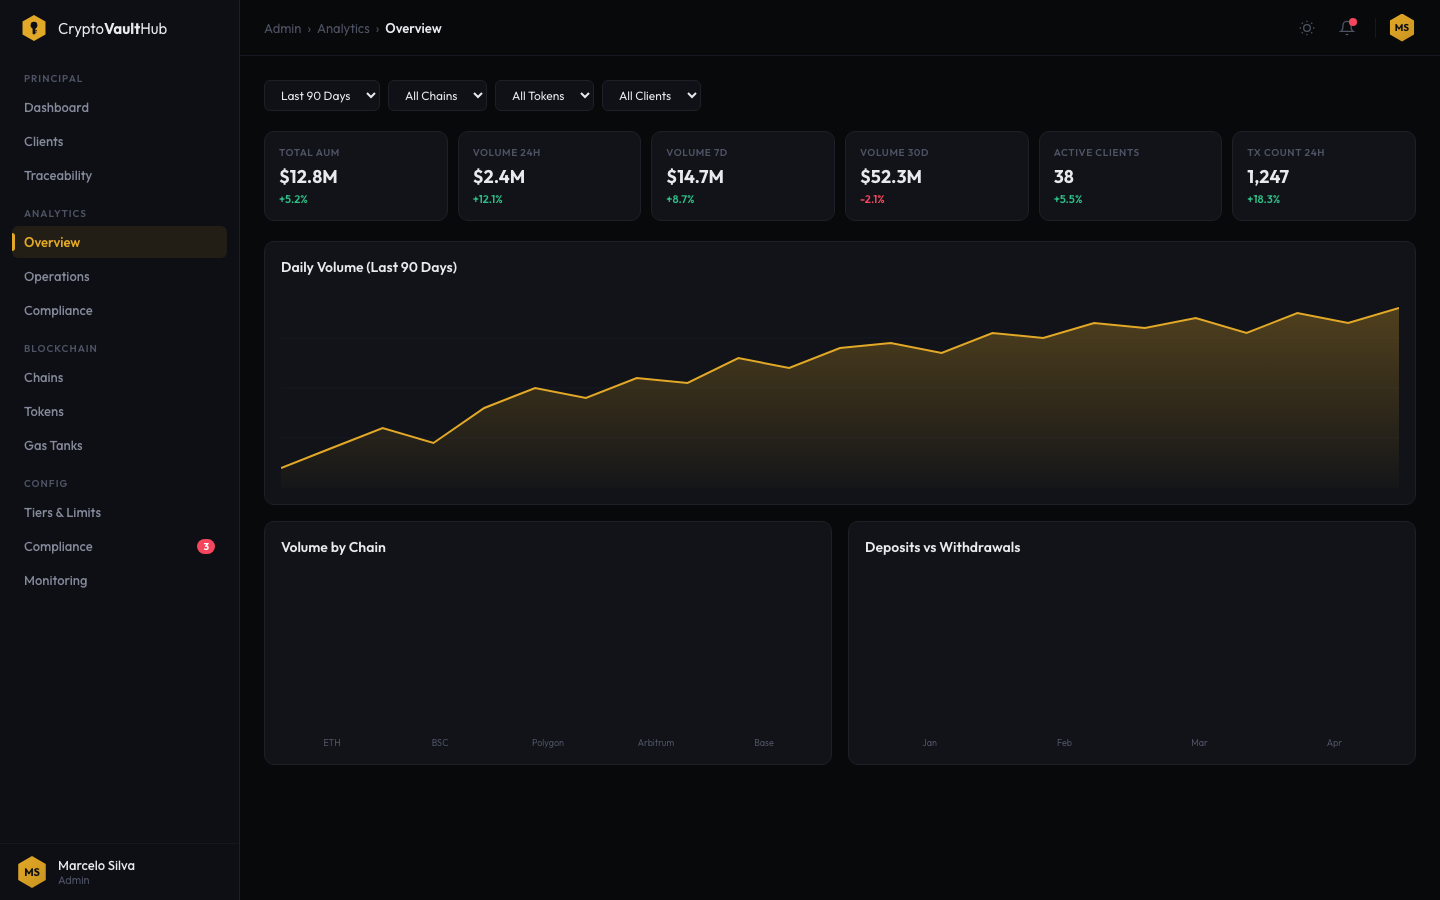
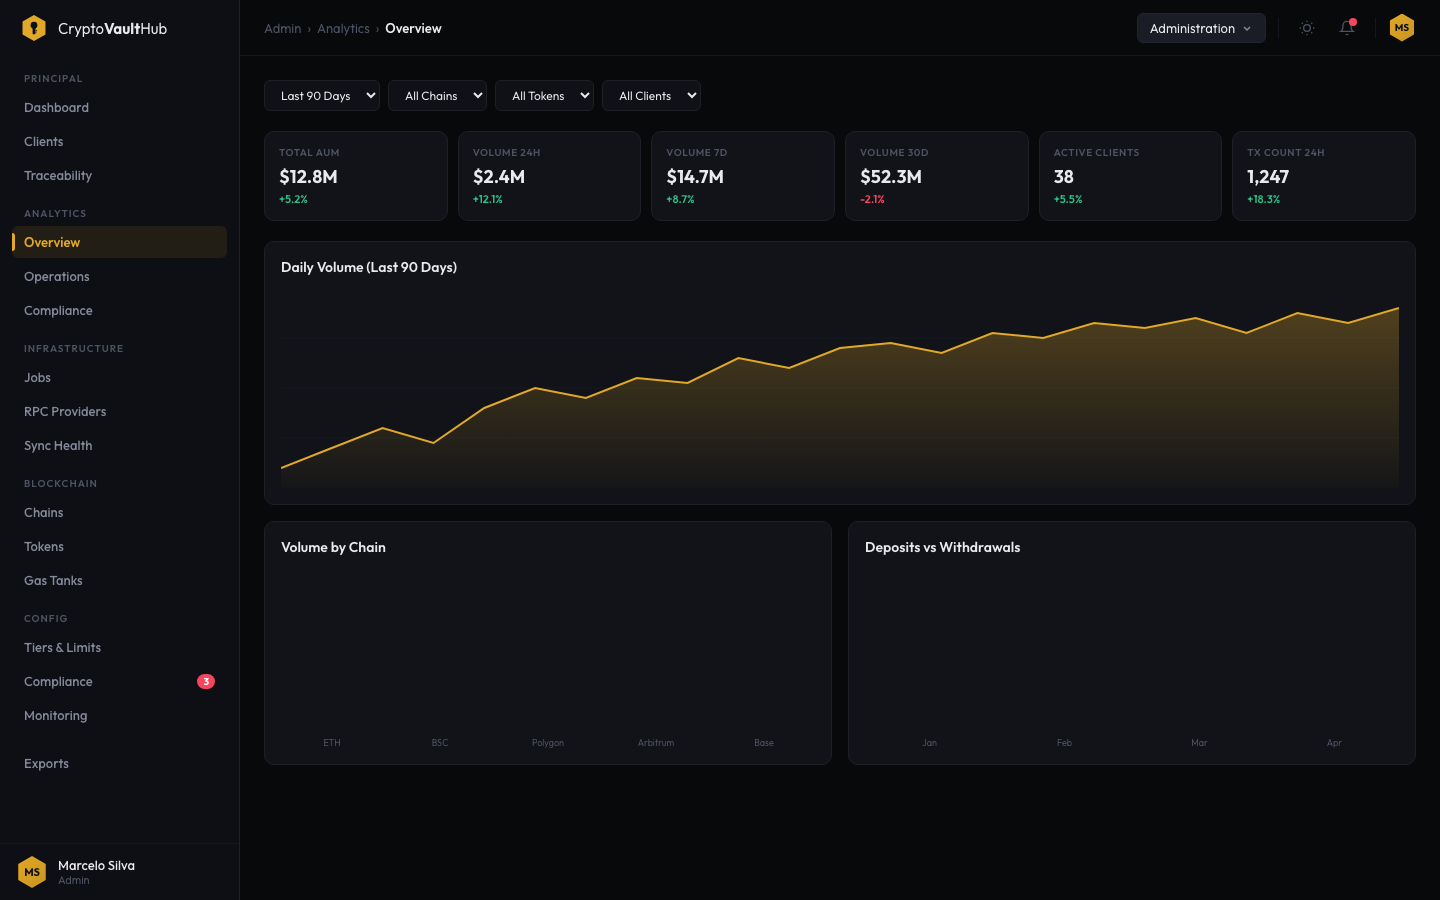
docs: update admin screenshots for v2 sidebar, header, and version badge
Add Infrastructure section (Jobs, RPC Providers, Sync Health) and Exports
nav item to admin analytics sidebar. Add Administration impersonation
dropdown to header. Add subtle v2 badge to admin login footer. Regenerate
all affected PNGs.

diff --git a/docs/screenshots/admin-analytics-dark.html b/docs/screenshots/admin-analytics-dark.html
@@ -58,14 +58,16 @@ body{width:1440px;height:900px;overflow:hidden;font-family:'Outfit',sans-serif;b
   <nav style="flex:1;overflow-y:auto;">
     <div class="nav-section"><div class="nav-label">Principal</div><a class="nav-item" href="#">Dashboard</a><a class="nav-item" href="#">Clients</a><a class="nav-item" href="#">Traceability</a></div>
     <div class="nav-section"><div class="nav-label">Analytics</div><a class="nav-item active" href="#">Overview</a><a class="nav-item" href="#">Operations</a><a class="nav-item" href="#">Compliance</a></div>
+    <div class="nav-section"><div class="nav-label">Infrastructure</div><a class="nav-item" href="#">Jobs</a><a class="nav-item" href="#">RPC Providers</a><a class="nav-item" href="#">Sync Health</a></div>
     <div class="nav-section"><div class="nav-label">Blockchain</div><a class="nav-item" href="#">Chains</a><a class="nav-item" href="#">Tokens</a><a class="nav-item" href="#">Gas Tanks</a></div>
     <div class="nav-section"><div class="nav-label">Config</div><a class="nav-item" href="#">Tiers & Limits</a><a class="nav-item" href="#">Compliance <span class="nav-badge">3</span></a><a class="nav-item" href="#">Monitoring</a></div>
+    <div class="nav-section"><a class="nav-item" href="#">Exports</a></div>
   </nav>
   <div class="sidebar-footer"><div class="avatar-hex">MS</div><div class="user-info"><div class="user-name">Marcelo Silva</div><div class="user-role">Admin</div></div></div>
 </aside>
 <header class="header">
   <div class="breadcrumb"><span class="crumb">Admin</span><span class="sep">&#8250;</span><span class="crumb">Analytics</span><span class="sep">&#8250;</span><span class="crumb active">Overview</span></div>
-  <div class="header-actions"><button class="header-btn"><svg width="16" height="16" viewBox="0 0 24 24" fill="none" stroke="#4E5364" stroke-width="2"><circle cx="12" cy="12" r="5"/><line x1="12" y1="1" x2="12" y2="3"/><line x1="12" y1="21" x2="12" y2="23"/><line x1="4.22" y1="4.22" x2="5.64" y2="5.64"/><line x1="18.36" y1="18.36" x2="19.78" y2="19.78"/><line x1="1" y1="12" x2="3" y2="12"/><line x1="21" y1="12" x2="23" y2="12"/><line x1="4.22" y1="19.78" x2="5.64" y2="18.36"/><line x1="18.36" y1="5.64" x2="19.78" y2="4.22"/></svg></button><button class="header-btn" style="position:relative;"><svg width="16" height="16" viewBox="0 0 24 24" fill="none" stroke="#4E5364" stroke-width="2"><path d="M18 8A6 6 0 006 8c0 7-3 9-3 9h18s-3-2-3-9"/><path d="M13.73 21a2 2 0 01-3.46 0"/></svg><span class="notif-dot"></span></button><div class="header-sep"></div><div class="mini-avatar">MS</div></div>
+  <div class="header-actions"><div style="display:flex;align-items:center;gap:6px;padding:6px 12px;background:#1A1D25;border:1px solid #22252F;border-radius:6px;cursor:pointer;"><span style="font-size:13px;color:#E8E9ED;">Administration</span><svg width="12" height="12" viewBox="0 0 12 12" fill="none"><path d="M3 5L6 8L9 5" stroke="#858A9B" stroke-width="1.5"/></svg></div><div class="header-sep"></div><button class="header-btn"><svg width="16" height="16" viewBox="0 0 24 24" fill="none" stroke="#4E5364" stroke-width="2"><circle cx="12" cy="12" r="5"/><line x1="12" y1="1" x2="12" y2="3"/><line x1="12" y1="21" x2="12" y2="23"/><line x1="4.22" y1="4.22" x2="5.64" y2="5.64"/><line x1="18.36" y1="18.36" x2="19.78" y2="19.78"/><line x1="1" y1="12" x2="3" y2="12"/><line x1="21" y1="12" x2="23" y2="12"/><line x1="4.22" y1="19.78" x2="5.64" y2="18.36"/><line x1="18.36" y1="5.64" x2="19.78" y2="4.22"/></svg></button><button class="header-btn" style="position:relative;"><svg width="16" height="16" viewBox="0 0 24 24" fill="none" stroke="#4E5364" stroke-width="2"><path d="M18 8A6 6 0 006 8c0 7-3 9-3 9h18s-3-2-3-9"/><path d="M13.73 21a2 2 0 01-3.46 0"/></svg><span class="notif-dot"></span></button><div class="header-sep"></div><div class="mini-avatar">MS</div></div>
 </header>
 <div class="main">
   <!-- Filter bar -->

diff --git a/docs/screenshots/admin-analytics-light.html b/docs/screenshots/admin-analytics-light.html
@@ -50,14 +50,16 @@ body{width:1440px;height:900px;overflow:hidden;font-family:'Outfit',sans-serif;b
   <nav style="flex:1;overflow-y:auto;">
     <div class="nav-section"><div class="nav-label">Principal</div><a class="nav-item" href="#">Dashboard</a><a class="nav-item" href="#">Clients</a><a class="nav-item" href="#">Traceability</a></div>
     <div class="nav-section"><div class="nav-label">Analytics</div><a class="nav-item active" href="#">Overview</a><a class="nav-item" href="#">Operations</a><a class="nav-item" href="#">Compliance</a></div>
+    <div class="nav-section"><div class="nav-label">Infrastructure</div><a class="nav-item" href="#">Jobs</a><a class="nav-item" href="#">RPC Providers</a><a class="nav-item" href="#">Sync Health</a></div>
     <div class="nav-section"><div class="nav-label">Blockchain</div><a class="nav-item" href="#">Chains</a><a class="nav-item" href="#">Tokens</a><a class="nav-item" href="#">Gas Tanks</a></div>
     <div class="nav-section"><div class="nav-label">Config</div><a class="nav-item" href="#">Tiers & Limits</a><a class="nav-item" href="#">Compliance <span class="nav-badge">3</span></a><a class="nav-item" href="#">Monitoring</a></div>
+    <div class="nav-section"><a class="nav-item" href="#">Exports</a></div>
   </nav>
   <div class="sidebar-footer"><div class="avatar-hex">MS</div><div class="user-info"><div class="user-name">Marcelo Silva</div><div class="user-role">Admin</div></div></div>
 </aside>
 <header class="header">
   <div class="breadcrumb"><span class="crumb">Admin</span><span class="sep">&#8250;</span><span class="crumb">Analytics</span><span class="sep">&#8250;</span><span class="crumb active">Overview</span></div>
-  <div class="header-actions"><button class="header-btn"><svg width="16" height="16" viewBox="0 0 24 24" fill="none" stroke="#9CA0AE" stroke-width="2"><path d="M21 12.79A9 9 0 1111.21 3 7 7 0 0021 12.79z"/></svg></button><button class="header-btn" style="position:relative;"><svg width="16" height="16" viewBox="0 0 24 24" fill="none" stroke="#9CA0AE" stroke-width="2"><path d="M18 8A6 6 0 006 8c0 7-3 9-3 9h18s-3-2-3-9"/><path d="M13.73 21a2 2 0 01-3.46 0"/></svg><span class="notif-dot"></span></button><div class="header-sep"></div><div class="mini-avatar">MS</div></div>
+  <div class="header-actions"><div style="display:flex;align-items:center;gap:6px;padding:6px 12px;background:#ECEDF0;border:1px solid #E2E4E8;border-radius:6px;cursor:pointer;"><span style="font-size:13px;color:#111318;">Administration</span><svg width="12" height="12" viewBox="0 0 12 12" fill="none"><path d="M3 5L6 8L9 5" stroke="#9CA0AE" stroke-width="1.5"/></svg></div><div class="header-sep"></div><button class="header-btn"><svg width="16" height="16" viewBox="0 0 24 24" fill="none" stroke="#9CA0AE" stroke-width="2"><path d="M21 12.79A9 9 0 1111.21 3 7 7 0 0021 12.79z"/></svg></button><button class="header-btn" style="position:relative;"><svg width="16" height="16" viewBox="0 0 24 24" fill="none" stroke="#9CA0AE" stroke-width="2"><path d="M18 8A6 6 0 006 8c0 7-3 9-3 9h18s-3-2-3-9"/><path d="M13.73 21a2 2 0 01-3.46 0"/></svg><span class="notif-dot"></span></button><div class="header-sep"></div><div class="mini-avatar">MS</div></div>
 </header>
 <div class="main">
   <div class="filter-bar"><select><option>Last 90 Days</option></select><select><option>All Chains</option></select><select><option>All Tokens</option></select><select><option>All Clients</option></select></div>

diff --git a/docs/screenshots/admin-login-dark.html b/docs/screenshots/admin-login-dark.html
@@ -88,7 +88,7 @@
     </div>
     <button class="btn-primary">Sign in</button>
   </div>
-  <div class="footer">CryptoVaultHub &copy; 2026. All rights reserved.</div>
+  <div class="footer">CryptoVaultHub &copy; 2026. All rights reserved. <span style="display:inline-block;margin-left:6px;padding:1px 6px;font-size:9px;font-weight:600;color:#E2A828;border:1px solid #E2A828;border-radius:4px;vertical-align:middle;letter-spacing:0.05em;">v2</span></div>
 </div>
 </body>
 </html>

diff --git a/docs/screenshots/admin-login-light.html b/docs/screenshots/admin-login-light.html
@@ -87,7 +87,7 @@
     </div>
     <button class="btn-primary">Sign in</button>
   </div>
-  <div class="footer">CryptoVaultHub &copy; 2026. All rights reserved.</div>
+  <div class="footer">CryptoVaultHub &copy; 2026. All rights reserved. <span style="display:inline-block;margin-left:6px;padding:1px 6px;font-size:9px;font-weight:600;color:#E2A828;border:1px solid #E2A828;border-radius:4px;vertical-align:middle;letter-spacing:0.05em;">v2</span></div>
 </div>
 </body>
 </html>
